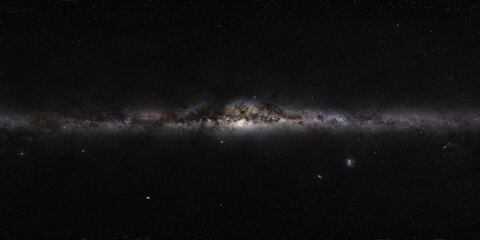
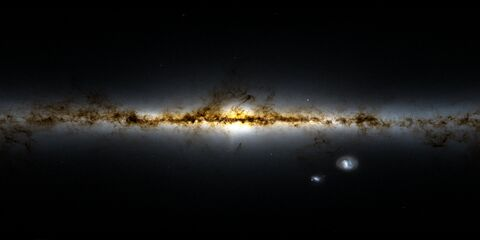
Repair I-026: starless Gaia EDR3 render (Kevinmloch, CC BY-SA 4.0, 3840x1920, 0.53 MB) replaces the two ESO halves (3.7 MB); dimmed in the shader (linear x0.04), milkyWayBrightness kept; trial switch and files removed; LMC 0.09 deg, SMC 0.23 deg; owner: keep it off by default

diff --git a/packages/astraeus/tests/sky.test.ts b/packages/astraeus/tests/sky.test.ts
@@ -162,18 +162,18 @@ function ndcOf(camera: PerspectiveCamera, world: Vector3): [number, number] {
 
 describe("the sky sits at infinity (Done When 3, ARCH-02)", () => {
   it("mounts a made-up three-star catalogue", () => {
-    const view = new SkyView({ starBrightness: 1, milkyWayBrightness: 1, pixelRatio: 1, pictures: [new Texture(), new Texture()] });
+    const view = new SkyView({ starBrightness: 1, milkyWayBrightness: 1, pixelRatio: 1, pictures: [new Texture()] });
     expect(view.starCount).toBe(0);
     view.setStars(MADE_UP);
     expect(view.starCount).toBe(3);
-    expect(view.group.children.map((child) => child.type).sort()).toEqual(["Mesh", "Mesh", "Points"]);
+    expect(view.group.children.map((child) => child.type).sort()).toEqual(["Mesh", "Points"]);
     view.setStars([]);
     expect(view.starCount).toBe(0);
-    expect(view.group.children.map((child) => child.type)).toEqual(["Mesh", "Mesh"]);
+    expect(view.group.children.map((child) => child.type)).toEqual(["Mesh"]);
   });
 
   it("moves no star on screen when the camera's position, near and far change but its orientation does not", () => {
-    const view = new SkyView({ starBrightness: 1, milkyWayBrightness: 1, pixelRatio: 1, pictures: [new Texture(), new Texture()] });
+    const view = new SkyView({ starBrightness: 1, milkyWayBrightness: 1, pixelRatio: 1, pictures: [new Texture()] });
     view.setStars(MADE_UP);
     const points = view.group.children.find((child) => child.type === "Points") as import("three").Points;
     const positions = points.geometry.getAttribute("position");
@@ -201,7 +201,7 @@ describe("the sky sits at infinity (Done When 3, ARCH-02)", () => {
   });
 
   it("turns with the camera: a rotation moves the probe on screen and a translation does not", () => {
-    const view = new SkyView({ starBrightness: 1, milkyWayBrightness: 1, pixelRatio: 1, pictures: [new Texture(), new Texture()] });
+    const view = new SkyView({ starBrightness: 1, milkyWayBrightness: 1, pixelRatio: 1, pictures: [new Texture()] });
     const camera = new PerspectiveCamera(45, 1.6, 1, 1000);
     view.follow(camera);
     const before = view.probe(camera).ndc;
@@ -226,21 +226,21 @@ describe("the sky sits at infinity (Done When 3, ARCH-02)", () => {
 });
 
 describe("rights and the shell item (Done When 4, PROV-02)", () => {
-  it("licenses the Milky Way image and credits ESO/S. Brunier", () => {
-    expect(milkyWayTiles()).toHaveLength(2);
+  it("licenses the Milky Way image and credits Kevinmloch and Gaia", () => {
+    expect(milkyWayTiles()).toHaveLength(1);
     for (const tile of milkyWayTiles()) {
       expect(textureRightsProblem(tile)).toBeNull();
-      expect(tile.licence?.licence).toBe("CC BY 4.0");
-      expect(tile.licence?.attribution).toContain("ESO/S. Brunier");
+      expect(tile.licence?.licence).toBe("CC BY-SA 4.0");
+      expect(tile.licence?.attribution).toContain("Kevinmloch (bsrender) from Gaia EDR3, ESA/Gaia/DPAC");
       expect(Math.max(tile.widthPx, tile.heightPx)).toBeLessThanOrEqual(4096); // under every WebGL2 GPU's texture limit
     }
-    expect(milkyWayTiles().reduce((sum, tile) => sum + tile.widthPx, 0)).toBe(6000); // the full original width
+    expect(milkyWayTiles().reduce((sum, tile) => sum + tile.widthPx, 0)).toBe(3840); // the 3840 px Commons thumbnail of the 8000 px original
   });
 
   it("cites its sources and says plainly which star file is drawn", () => {
     const absent = skyObject({ kind: "absent" });
     expect(absent.provenance?.sources.join(" ")).not.toMatch(/Hoffleit|stars=yale/);
-    expect(absent.provenance?.sources.join(" ")).toMatch(/ESO\/S\. Brunier/);
+    expect(absent.provenance?.sources.join(" ")).toMatch(/Kevinmloch/);
     expect(absent.provenance?.sources.join(" ")).toMatch(/HYG star database v4\.2.*CC BY-SA 4\.0/);
     expect(absent.provenance?.notes).toMatch(/could not be loaded/);
     expect(absent.provenance?.notes).toMatch(/Stars are not drawn/);
@@ -281,10 +281,10 @@ describe("rights and the shell item (Done When 4, PROV-02)", () => {
     expect(milkyWayFromSearch("?milkyway=on")).toBe(true);
     expect(milkyWayFromSearch("?sky=off")).toBeNull();
     expect(milkyWayFromSearch("?milkyway=maybe")).toBeNull();
-    const view = new SkyView({ starBrightness: 1, milkyWayBrightness: 1, pixelRatio: 1, pictures: [new Texture(), new Texture()], milkyWay: false });
+    const view = new SkyView({ starBrightness: 1, milkyWayBrightness: 1, pixelRatio: 1, pictures: [new Texture()], milkyWay: false });
     view.setStars(MADE_UP);
     const meshes = () => view.group.children.filter((child) => child.type === "Mesh");
-    expect(meshes()).toHaveLength(2);
+    expect(meshes()).toHaveLength(1);
     expect(view.pictureVisible).toBe(false);
     expect(meshes().every((mesh) => !mesh.visible)).toBe(true);
     expect(view.group.children.find((child) => child.type === "Points")?.visible).toBe(true);
@@ -292,9 +292,9 @@ describe("rights and the shell item (Done When 4, PROV-02)", () => {
     expect(view.pictureVisible).toBe(true);
     expect(view.starCount).toBe(3);
     // Owner decision 2026-10-15: with no setting the picture starts off; the switch (or ?milkyway=on) turns it on.
-    const byDefault = new SkyView({ starBrightness: 1, milkyWayBrightness: 1, pixelRatio: 1, pictures: [new Texture(), new Texture()] });
+    const byDefault = new SkyView({ starBrightness: 1, milkyWayBrightness: 1, pixelRatio: 1, pictures: [new Texture()] });
     expect(byDefault.pictureVisible).toBe(false);
-    expect(new SkyView({ starBrightness: 1, milkyWayBrightness: 1, pixelRatio: 1, pictures: [new Texture(), new Texture()], milkyWay: true }).pictureVisible).toBe(true);
+    expect(new SkyView({ starBrightness: 1, milkyWayBrightness: 1, pixelRatio: 1, pictures: [new Texture()], milkyWay: true }).pictureVisible).toBe(true);
   });
 
   it("reads brightness from the address, ignoring bad values with a warning, and changes the uniforms in place", () => {
@@ -307,7 +307,7 @@ describe("rights and the shell item (Done When 4, PROV-02)", () => {
     for (const bad of ["?stars=3", "?stars=-1", "?stars=abc", "?stars="]) expect(brightnessFromSearch(bad, "stars")).toBeNull();
     expect(warn).toHaveBeenCalledTimes(4);
     warn.mockRestore();
-    const view = new SkyView({ starBrightness: 1.2, milkyWayBrightness: 0.5, pixelRatio: 1, pictures: [new Texture(), new Texture()] });
+    const view = new SkyView({ starBrightness: 1.2, milkyWayBrightness: 0.5, pixelRatio: 1, pictures: [new Texture()] });
     expect(view.starBrightness).toBe(1.2);
     expect(view.milkyWayBrightness).toBeCloseTo(0.5, 9);
     view.setStarBrightness(1.7);
@@ -318,7 +318,7 @@ describe("rights and the shell item (Done When 4, PROV-02)", () => {
   });
 
   it("filters the picture with mipmaps and anisotropy so it does not sparkle", () => {
-    const halves = [new Texture(), new Texture()];
+    const halves = [new Texture()];
     const view = new SkyView({ starBrightness: 1, milkyWayBrightness: 1, pixelRatio: 2, maxAnisotropy: 8, pictures: halves });
     for (const texture of halves) {
       expect(texture.generateMipmaps).toBe(true);

diff --git a/packages/astraeus/src/app/SkyView.ts b/packages/astraeus/src/app/SkyView.ts
@@ -1,12 +1,19 @@
 import { AdditiveBlending, BufferAttribute, BufferGeometry, DoubleSide, LinearFilter, LinearMipmapLinearFilter, Group, Mesh, Points, ShaderMaterial, NoColorSpace, TextureLoader, Vector3 } from "three";
 import type { Camera, PerspectiveCamera, Texture } from "three";
-import { ESO_PICTURE, type PictureSet, type StarRow } from "../assets/sky";
+import { MILKY_WAY_PICTURE, type PictureSet, type StarRow } from "../assets/sky";
 import { buildPictureMesh, buildStarBuffers } from "./skyModel";
 
 // Both draws sit before everything else in the first pass (the layer-0 pass), ignore depth, and write none.
 const SKY_ORDER = -1000;
-/** Strength of the picture at brightness 1: the Milky Way is a backdrop, not the subject. */
-const PICTURE_GAIN = 0.5;
+/** Strength of the picture at brightness 1, applied after the dimming below (1: the slider scales what the dimming leaves). */
+const PICTURE_GAIN = 1;
+/**
+ * The picture is a bright render, so it is dimmed the way Star Explorer dims its sky texture (an sRGB texture times a dark grey, drawn
+ * additively): decode to linear light, multiply, encode again. 0.04 gives a mean grey of about 2.2%, the level of the owner's
+ * 2026-10-27 trial (linear x 0.04, which at the old gain of 0.5 was written x 2). Faint values fall far more than bright ones,
+ * which is what keeps the band smooth and subtle. Look-tuning is the Milky Way brightness setting, which scales the result.
+ */
+const PICTURE_DIM = 0.04;
 /** A fixed render-frame direction used to read the sky back: where it lands on screen depends only on the camera orientation. */
 const PROBE_DIRECTION = new Vector3(0.62, 0.35, -0.7).normalize();
 
@@ -20,9 +27,11 @@ void main() {
 const PICTURE_FRAGMENT = `
 uniform sampler2D uMap;
 uniform float uGain;
+uniform float uDim;
 varying vec2 vUv;
 void main() {
-  gl_FragColor = vec4(texture2D(uMap, vUv).rgb * uGain, 1.0);
+  vec3 linear = pow(texture2D(uMap, vUv).rgb, vec3(2.2)) * uDim;
+  gl_FragColor = vec4(pow(linear, vec3(1.0 / 2.2)) * uGain, 1.0);
 }`;
 
 // A star is a small Gaussian core: `aSize` is its width at half maximum in CSS pixels, the sprite is wide enough to hold three
@@ -64,9 +73,9 @@ export interface SkyViewOptions {
   readonly maxAnisotropy?: number;
   /** Whether the picture is drawn. Defaults to true. */
   readonly milkyWay?: boolean;
-  /** Legacy: the two ESO halves as ready textures (a test may pass empty ones). Overrides `picture`. */
+  /** Legacy: ready textures, one per tile (a test may pass empty ones). Overrides `picture`. */
   readonly pictures?: readonly Texture[];
-  /** The picture to draw, as a tile grid; defaults to the ESO panorama. `null` draws none until `requestPicture` is called. */
+  /** The picture to draw, as a tile grid; defaults to the Milky Way picture. `null` draws none until `requestPicture` is called. */
   readonly picture?: PictureSet | null;
 }
 
@@ -94,8 +103,8 @@ export class SkyView {
     this.#pictureOn = options.milkyWay ?? false;
     this.#brightness = milkyWayBrightness;
     this.#maxAnisotropy = maxAnisotropy;
-    if (options.pictures !== undefined) this.#build(ESO_PICTURE, options.pictures);
-    else if (options.picture !== null) this.#build(options.picture ?? ESO_PICTURE);
+    if (options.pictures !== undefined) this.#build(MILKY_WAY_PICTURE, options.pictures);
+    else if (options.picture !== null) this.#build(options.picture ?? MILKY_WAY_PICTURE);
     this.#starMaterial = new ShaderMaterial({
       vertexShader: STAR_VERTEX,
       fragmentShader: STAR_FRAGMENT,
@@ -116,7 +125,7 @@ export class SkyView {
     set.tiles.forEach((tile, index) => {
       const texture = textures?.[index] ?? new TextureLoader().load(tile.url);
       this.#textures.push(texture);
-      // Raw sRGB goes to the framebuffer as it is (no decode and re-encode per pixel); mipmaps and anisotropic filtering keep the
+      // The texture is read as raw sRGB values and the shader does the dimming (PICTURE_DIM); mipmaps and anisotropic filtering keep the
       // picture from sparkling when it is drawn smaller than the file, and the magnified case is plain bilinear.
       texture.colorSpace = NoColorSpace;
       texture.generateMipmaps = true;
@@ -127,7 +136,7 @@ export class SkyView {
       const material = new ShaderMaterial({
         vertexShader: PICTURE_VERTEX,
         fragmentShader: PICTURE_FRAGMENT,
-        uniforms: { uMap: { value: texture }, uGain: { value: PICTURE_GAIN * this.#brightness } },
+        uniforms: { uMap: { value: texture }, uDim: { value: PICTURE_DIM }, uGain: { value: PICTURE_GAIN * this.#brightness } },
         side: DoubleSide,
         depthTest: false,
         depthWrite: false,
@@ -157,9 +166,9 @@ export class SkyView {
     this.#held = false;
   }
 
-  /** Builds the ESO panorama the first time it is wanted (nothing is decoded while the picture stays off); a no-op once a picture is held. */
+  /** Builds the Milky Way picture the first time it is wanted (nothing is decoded while the picture stays off); a no-op once a picture is held. */
   requestPicture(): void {
-    if (!this.#held) this.#build(ESO_PICTURE);
+    if (!this.#held) this.#build(MILKY_WAY_PICTURE);
   }
 
   /** Sets the star strength in place (0 to 2); no rebuild. */

diff --git a/packages/astraeus-site/assets.html b/packages/astraeus-site/assets.html
@@ -179,9 +179,9 @@ footer .wrap { display: flex; flex-wrap: wrap; justify-content: space-between; g
       </div>
       <div class="sky-feature">
         <figure class="plate" style="margin:0">
-          <img src="site/t-milky-way.jpg" alt="The ESO Milky Way panorama, the whole sky in one strip with the galactic centre in the middle." loading="lazy">
-          <span class="tag">MILKY WAY · ESO/S. BRUNIER</span>
-          <div class="cap">ESO eso0932a, 6000×3000, 3.7 MB. Split into two halves at the galactic centre and turned into the same sky frame as the stars. Good to a few degrees, and soft beside the stars: a sharper one is on the wish list. Off by default, with a switch and a brightness slider.</div>
+          <img src="site/t-milky-way.jpg" alt="The Milky Way picture, the whole sky in one strip with the galactic centre in the middle." loading="lazy">
+          <span class="tag">MILKY WAY · KEVINMLOCH, GAIA EDR3</span>
+          <div class="cap">Gaia EDR3 render without the foreground stars, 3840×1920, 0.5 MB, one image in the same sky frame as the stars (the Magellanic Clouds land within half a degree). Dimmed when drawn so it stays smooth and subtle. Off by default, with a switch and a brightness slider.</div>
         </figure>
         <figure class="plate" style="margin:0">
           <canvas id="stars" aria-label="A sketch of the brightest stars along the ecliptic band" role="img"></canvas>
@@ -231,7 +231,7 @@ footer .wrap { display: flex; flex-wrap: wrap; justify-content: space-between; g
         <p>The credit lines each source asks for, word for word where they give one.</p>
       </div>
       <div class="rows">
-        <div class="row"><div><h3>Milky Way panorama</h3><span class="sub">CC BY 4.0</span></div><p class="lic">ESO/S. Brunier. eso0932a, eso.org/public/images/eso0932a. Changed: split in two and turned into the J2000 sky frame.</p><p></p><span class="st ok"><i></i>Required</span></div>
+        <div class="row"><div><h3>Milky Way panorama</h3><span class="sub">CC BY-SA 4.0</span></div><p class="lic">Milky Way render by Kevinmloch (bsrender) from Gaia EDR3, ESA/Gaia/DPAC. commons.wikimedia.org/wiki/File:Milky_Way_360_equirectangular_rendering_with_foreground_stars_removed.png. Changed: resized to 3840x1920, re-encoded as JPEG and dimmed when drawn.</p><p></p><span class="st ok"><i></i>Required</span></div>
         <div class="row"><div><h3>Sun, Mercury, Mars, Jupiter maps</h3><span class="sub">CC BY 4.0</span></div><p class="lic">Solar System Scope (solarsystemscope.com/textures), based on NASA imagery and elevation data.</p><p></p><span class="st ok"><i></i>Required</span></div>
         <div class="row"><div><h3>Venus map</h3><span class="sub">Public domain</span></div><p class="lic">Venus texture: USGS Astrogeology / NASA Magellan C3-MDIR mosaic, public domain. astrogeology.usgs.gov/search/map/Venus/Magellan/Venus_Magellan_C3MDIR_Colorized_Global_Mosaic_4641m.</p><p></p><span class="st ok"><i></i>Courtesy</span></div>
         <div class="row"><div><h3>Io map</h3><span class="sub">Public domain</span></div><p class="lic">USGS Astrogeology Science Center; NASA/JPL Galileo and Voyager missions.</p><p></p><span class="st ok"><i></i>Courtesy</span></div>

diff --git a/packages/astraeus/tests/skyPicture.test.ts b/packages/astraeus/tests/skyPicture.test.ts
@@ -1,25 +1,25 @@
-// I-026, slimmed by T-068: the one Milky Way picture (the ESO panorama as a tiled set), its mesh, and its lazy load.
+// I-026, slimmed by T-068: the one Milky Way picture (the Gaia EDR3 render as a one-tile set), its mesh, and its lazy load.
 // Scenarios removed with the second (NASA) picture source, none of them still applicable: manifest validation, tone-map arguments,
-// equatorial registration, the fetched-tiles check, the fall-back to ESO and the `?skymap=` switch (comparison-only; the ESO set,
+// equatorial registration, the fetched-tiles check, the fall-back to the earlier source and the `?skymap=` switch (comparison-only; the picture set,
 // its galactic registration in sky.test.ts, and the lazy load below remain).
 import { describe, expect, it, vi } from "vitest";
 import { Texture, TextureLoader } from "three";
-import { ESO_PICTURE, MAX_TILE_PX, milkyWayUv } from "../src/assets/sky";
+import { MILKY_WAY_PICTURE, MAX_TILE_PX, milkyWayUv } from "../src/assets/sky";
 import { SkyView } from "../src/app/SkyView";
 import { buildPictureMesh, resolveSkySettings } from "../src/app/skyModel";
 
 /** Render-frame position back to an EQJ unit vector. */
 const renderToEqj = (x: number, y: number, z: number): [number, number, number] => [x, -z, y];
 
-describe("the ESO Milky Way picture", () => {
-  it("is the galactic two-tile panorama, each tile within the GPU texture limit, with its licence", () => {
-    expect(ESO_PICTURE).toMatchObject({ columns: 2, rows: 1, licence: "CC BY 4.0", credit: "ESO/S. Brunier" });
-    expect(ESO_PICTURE.tiles).toHaveLength(2);
-    expect(ESO_PICTURE.tiles.every((tile) => tile.widthPx <= MAX_TILE_PX && tile.heightPx <= MAX_TILE_PX)).toBe(true);
+describe("the Milky Way picture", () => {
+  it("is the galactic one-tile picture, within the GPU texture limit, with its licence", () => {
+    expect(MILKY_WAY_PICTURE).toMatchObject({ columns: 1, rows: 1, licence: "CC BY-SA 4.0", credit: "Kevinmloch (bsrender), Gaia EDR3, ESA/Gaia/DPAC" });
+    expect(MILKY_WAY_PICTURE.tiles).toHaveLength(1);
+    expect(MILKY_WAY_PICTURE.tiles.every((tile) => tile.widthPx <= MAX_TILE_PX && tile.heightPx <= MAX_TILE_PX)).toBe(true);
   });
 
   it("places every vertex of each tile mesh on the galactic picture coordinates its own texture coordinates name", () => {
-    const grid = { columns: ESO_PICTURE.columns, rows: ESO_PICTURE.rows };
+    const grid = { columns: MILKY_WAY_PICTURE.columns, rows: MILKY_WAY_PICTURE.rows };
     let worst = 0;
     for (let column = 0; column < grid.columns; column += 1) {
       const mesh = buildPictureMesh(128, 64, { column, row: 0, ...grid });
@@ -47,7 +47,7 @@ describe("the ESO Milky Way picture", () => {
     expect(meshes()).toHaveLength(0);
     view.requestPicture();
     view.requestPicture();
-    expect(meshes()).toHaveLength(2);
+    expect(meshes()).toHaveLength(1);
     expect(view.pictureVisible).toBe(false);
     view.setPictureVisible(true);
     expect(view.pictureVisible).toBe(true);

diff --git a/packages/astraeus-data/src/pictures.ts b/packages/astraeus-data/src/pictures.ts
@@ -11,8 +11,7 @@ import ganymedeUrl from "./textures/ganymede-2k.jpg";
 import iapetusUrl from "./textures/iapetus-4k.jpg";
 import ioUrl from "./textures/io-2k.jpg";
 import mimasUrl from "./textures/mimas-4k.jpg";
-import milkyWayLeftUrl from "./textures/milky-way-left.jpg";
-import milkyWayRightUrl from "./textures/milky-way-right.jpg";
+import milkyWayUrl from "./textures/milky-way.jpg";
 import plutoUrl from "./textures/pluto-4k.jpg";
 import rheaUrl from "./textures/rhea-4k.jpg";
 import tethysUrl from "./textures/tethys-4k.jpg";
@@ -46,11 +45,12 @@ const IO_TEXTURE_LICENCE: AssetLicence = Object.freeze({
 });
 
 const MILKY_WAY_LICENCE: AssetLicence = Object.freeze({
-  source: "The Milky Way panorama (eso0932a), ESO/S. Brunier",
-  url: "https://www.eso.org/public/images/eso0932a/",
-  licence: "CC BY 4.0",
-  attribution: "ESO/S. Brunier. The 6000x3000 original (TIFF) was cut into two 3000x3000 halves and re-encoded as JPEG; no other change.",
-  accessed: "2026-10-13",
+  source: "Milky Way 360 equirectangular rendering with foreground stars removed (Wikimedia Commons), Kevinmloch, bsrender, from Gaia EDR3",
+  url: "https://commons.wikimedia.org/wiki/File:Milky_Way_360_equirectangular_rendering_with_foreground_stars_removed.png",
+  licence: "CC BY-SA 4.0",
+  attribution: "Milky Way render by Kevinmloch (bsrender) from Gaia EDR3, ESA/Gaia/DPAC, CC BY-SA 4.0. The 8000x4000 original was resized to 3840x1920 by Wikimedia Commons and re-encoded as JPEG here; no other change (it is dimmed when drawn, not in the file)."
+,
+  accessed: "2026-10-29",
 });
 
 
@@ -110,8 +110,7 @@ export const PICTURES: Readonly<Record<string, TextureRef>> = Object.freeze({
   triton: picture(tritonUrl, 4096, 2048, nasa("Triton", `NASA/JPL-Caltech/Lunar & Planetary Institute Map of Triton (PIA18668), Voyager 2 simple-cylindrical colour map via the public-domain Wikimedia copy; donor file 14,138x7,069 (donor README); ${RESIZE}`, "https://pds-rings.seti.org/press_releases/pages/PIA18xxx/PIA18668.html", "NASA/JPL-Caltech/Lunar & Planetary Institute")),
   charon: picture(charonUrl, 1024, 512, nasa("Charon", "USGS Astrogeology, Charon New Horizons LORRI MVIC Global Mosaic 300 m (Jul 2017), 1024 px preview JPG (byte-identical to the donor's charon-2k.jpg; no donor README entry, source recorded by Astraeus)", "https://astrogeology.usgs.gov/", "New Horizons team; NASA, JHUAPL, SwRI, LPI; USGS Astrogeology 2017", "USGS use constraint: please cite authors")),
   "venus-8k": picture(venus8kUrl, 8192, 4096, VENUS_LICENCE),
-  "milky-way-left": picture(milkyWayLeftUrl, 3000, 3000, MILKY_WAY_LICENCE),
-  "milky-way-right": picture(milkyWayRightUrl, 3000, 3000, MILKY_WAY_LICENCE),
+  "milky-way": picture(milkyWayUrl, 3840, 1920, MILKY_WAY_LICENCE),
 });
 
 /** The bodies that gain a map from this package (the others in `PICTURES` are the sky and Venus's wide-screen file). */

diff --git a/packages/astraeus/src/assets/sky.ts b/packages/astraeus/src/assets/sky.ts
@@ -170,28 +170,27 @@ export function starAppearance(vMag: number): { readonly sizePx: number; readonl
 // ---------------------------------------------------------------- sources and the shell item
 
 /**
- * The picture in two square halves, left (longitude 180 to 0, running to the centre) then right; each is under every GPU's texture limit.
- * The files ship in astraeus-data (names "milky-way-left", "milky-way-right"); without that package the list is empty and no picture is drawn.
+ * The picture, one 3840x1920 image (under every GPU's texture limit). The file ships in astraeus-data (name "milky-way");
+ * without that package the list is empty and no picture is drawn.
  */
-export const milkyWayTiles = (): readonly TextureRef[] => ["milky-way-left", "milky-way-right"].flatMap((name) => pictureOf(name) ?? []);
+export const milkyWayTiles = (): readonly TextureRef[] => ["milky-way"].flatMap((name) => pictureOf(name) ?? []);
 
-/** The ESO panorama as a two-tile galactic picture: the one Milky Way picture. */
-export const ESO_PICTURE: PictureSet = Object.freeze<PictureSet>({
-  name: "ESO Milky Way panorama (eso0932a)",
-  columns: 2,
+/** The Gaia EDR3 render (stars removed) as a one-tile galactic picture: the one Milky Way picture. */
+export const MILKY_WAY_PICTURE: PictureSet = Object.freeze<PictureSet>({
+  name: "Milky Way, Gaia EDR3 render without foreground stars (Kevinmloch)",
+  columns: 1,
   rows: 1,
   get tiles(): readonly PictureTile[] {
-    const halves = milkyWayTiles();
-    return halves.length < 2 ? [] : halves.map((tile, column) => Object.freeze({ column, row: 0, url: tile.url, widthPx: tile.widthPx, heightPx: tile.heightPx }));
+    return milkyWayTiles().map((tile) => Object.freeze({ column: 0, row: 0, url: tile.url, widthPx: tile.widthPx, heightPx: tile.heightPx }));
   },
-  credit: "ESO/S. Brunier",
-  licence: "CC BY 4.0",
-  source: "https://www.eso.org/public/images/eso0932a/",
+  credit: "Kevinmloch (bsrender), Gaia EDR3, ESA/Gaia/DPAC",
+  licence: "CC BY-SA 4.0",
+  source: "https://commons.wikimedia.org/wiki/File:Milky_Way_360_equirectangular_rendering_with_foreground_stars_removed.png",
 });
 
 export const SKY_SOURCES: readonly string[] = Object.freeze([
   "HYG star database v4.2 (Hipparcos, Yale Bright Star, Gliese catalogues), astronexus (https://www.astronexus.com/projects/hyg), CC BY-SA 4.0. The star file only; the code is MIT.",
-  "The Milky Way panorama, ESO/S. Brunier (https://www.eso.org/public/images/eso0932a/), CC BY 4.0.",
+  "The Milky Way picture: Milky Way render by Kevinmloch (bsrender) from Gaia EDR3, ESA/Gaia/DPAC (https://commons.wikimedia.org/wiki/File:Milky_Way_360_equirectangular_rendering_with_foreground_stars_removed.png), CC BY-SA 4.0. Resized.",
 ]);
 
 // ---------------------------------------------------------------- settings

diff --git a/packages/astraeus-site/index.html b/packages/astraeus-site/index.html
@@ -304,7 +304,7 @@ moon.<span class="g">stateAt</span>(Date.<span class="g">parse</span>(<span clas
         <div class="globe"><div class="ball" style="background-image:url(site/t-pluto-4k.jpg)"></div><b>Pluto</b><span>NASA/JPL</span><a class="moons" href="assets.html#moons-pluto">+5 moons</a></div>
       </div>
       <div class="shelf2">
-        <a class="tile" href="assets.html"><img src="site/t-milky-way.jpg" alt="The ESO Milky Way panorama"><div class="tile-body"><small>SKY</small><b>Real stars and the Milky Way</b><p>8,920 naked-eye stars from the HYG catalogue, and ESO's panorama in the same frame.</p></div></a>
+        <a class="tile" href="assets.html"><img src="site/t-milky-way.jpg" alt="The Milky Way picture"><div class="tile-body"><small>SKY</small><b>Real stars and the Milky Way</b><p>8,920 naked-eye stars from the HYG catalogue, and a Gaia-based Milky Way picture in the same frame.</p></div></a>
         <a class="tile data-tile" href="assets.html"><div class="tile-body" style="padding:0"><small>MEASURED ORBITS</small><b>Global Meteor Network</b><p>Perseids from 2025, every meteor on its own ellipse. CC BY 4.0.</p></div><span class="big">25,588</span></a>
         <a class="tile data-tile" href="assets.html"><div class="tile-body" style="padding:0"><small>ORBITS AND MISSIONS</small><b>NASA JPL and Apollo 11</b><p>A comet out to 51 AU, an asteroid from a settings file, and 30 timed Apollo events.</p></div><span class="big">30</span></a>
       </div>

diff --git a/packages/astraeus-site/tests/assetsPageCredits.test.ts b/packages/astraeus-site/tests/assetsPageCredits.test.ts
@@ -52,7 +52,7 @@ interface Claim {
 }
 
 const claims: readonly Claim[] = [
-  { row: "Milky Way panorama", records: [PICTURES["milky-way-left"]!.licence!], credit: ["ESO/S. Brunier"], linked: true },
+  { row: "Milky Way panorama", records: [PICTURES["milky-way"]!.licence!], credit: ["Kevinmloch (bsrender)", "Gaia EDR3"], linked: true },
   { row: "Sun, Mercury, Mars, Jupiter maps", records: ["sun", "mercury", "mars", "jupiter"].map(bodyRecord), credit: ["Solar System Scope (solarsystemscope.com/textures)"], linked: true },
   { row: "Venus map", records: [bodyRecord("venus")], credit: ["USGS Astrogeology / NASA Magellan"], linked: true },
   { row: "Io map", records: [bodyRecord("io")], credit: ["USGS Astrogeology Science Center", "NASA/JPL Galileo and Voyager missions"], linked: false },

diff --git a/packages/astraeus/src/app/skyModel.ts b/packages/astraeus/src/app/skyModel.ts
@@ -49,7 +49,7 @@ export function skyObject(status: StarStatus): ExperienceObject {
   const provenance: Provenance = createProvenance({
     sourceType: "observed",
     sources: SKY_SOURCES,
-    accuracy: "Star directions are the catalogue's J2000 positions to about an arcsecond. The Milky Way picture is the ESO photographic panorama, placed by its galactic coordinates (agrees with the stars only to a few degrees).",
+    accuracy: "Star directions are the catalogue's J2000 positions to about an arcsecond. The Milky Way picture is a Gaia EDR3 render with the foreground stars removed, placed by its galactic coordinates (the Magellanic Clouds land within half a degree).",
     notes: starLine,
   });
   return {

diff --git a/packages/astraeus-site/tests/packagePacks.test.ts b/packages/astraeus-site/tests/packagePacks.test.ts
@@ -72,7 +72,7 @@ describe("publishable packages", () => {
 
 describe("astraeus-data credits (PROV-02)", () => {
   it("every picture carries a licence with a credit and a source page", () => {
-    expect(Object.keys(PICTURES).length).toBe(17);
+    expect(Object.keys(PICTURES).length).toBe(16);
     for (const [name, texture] of Object.entries(PICTURES)) {
       expect(texture.licence, name).toBeDefined();
       expect(texture.licence!.attribution, name).toBeTruthy();

diff --git a/packages/astraeus/tests/publicApi.test.ts b/packages/astraeus/tests/publicApi.test.ts
@@ -115,7 +115,7 @@ describe("moons and the data packages (O-036 T-161)", () => {
       expect(texture?.url).toBeTruthy();
       expect(texture?.licence?.attribution).toContain("NASA/JPL");
       expect(catalogue.get("venus").visual.texture?.desktop?.widthPx).toBe(8192);
-      expect(pictureOf("milky-way-left")).toBeDefined();
+      expect(pictureOf("milky-way")).toBeDefined();
     } finally {
       registerPictures(pictureData.pictures!);
     }

diff --git a/.savepoint/issues/I-026-the-milky-way-picture-is-too-soft-beside-the-catalogue-stars.md b/.savepoint/issues/I-026-the-milky-way-picture-is-too-soft-beside-the-catalogue-stars.md
@@ -38,6 +38,14 @@ history:
     actor: {role: executor, session: owner-chat-milky-way-20261027}
     kind: observed
     note: 'Cause, measured against star-explorer/public/textures/milky-way-4k.jpg (NASA SVS 4851 Milky Way layer, bright stars removed): (1) splotchy = ESO eso0932a has its stars baked in; (2) bright = Star Explorer draws an sRGB texture times colour #6e6e6e (0.155 linear, AdditiveBlending, toneMapped false), which darkens faint values far more than bright ones, while SkyView multiplies raw sRGB values by PICTURE_GAIN 0.5, leaving a grey haze. Rejected: ESA Gaia EDR3 flux map (sci.esa.int, CC BY-SA 3.0 IGO): mean grey 18.8% vs NASA 3.9%, 64% of the sky above 8% vs 16%; owner "soo much worse". Chosen: Wikimedia Commons File:Milky_Way_360_equirectangular_rendering_with_foreground_stars_removed.png (Kevinmloch, bsrender from Gaia EDR3, stars within 3 kpc removed, CC BY-SA 4.0, 8000x4000; 32000x16000 original not linked). Galactic, l = 0 centred, increasing left, as milkyWayUv expects: LMC 0.1 deg and SMC 0.3 deg from expected (mirrored copy 15.2/9.5 deg). Local trial (uncommitted; files git-ignored in packages/astraeus-site/data/local/sky/): the 3840 px Wikimedia thumbnail, linearised, times 0.04, re-encoded, times 2 to undo PICTURE_GAIN, JPEG q85 = 245 KB, mean grey 2.2% matching the NASA layer drawn the Star Explorer way; NASA layer reprojected equatorial to galactic as a control (?skymap=nasa, local only, licence unchanged). Switch: trialPictureFromSearch in packages/astraeus/src/app/SkyView.ts, ?skymap=starless|nasa. tsc passed; no tests run, no browser run by the assistant.'
+  - at: '2026-10-29T10:50:00Z'
+    actor: {role: executor, session: i026-repair-2026-10-29}
+    kind: repair_attempted
+    note: 'Repair built on the owner''s 2026-10-27 and 2026-10-29 decisions (3840 px starless Gaia EDR3 render). Fetched the 3840 px Commons thumbnail of File:Milky_Way_360_equirectangular_rendering_with_foreground_stars_removed.png (Special:FilePath ?width=3840, 10.08 MB PNG, undimmed; the 8000 px original was not fetched), flattened alpha, re-encoded as JPEG q70 4:2:0: packages/astraeus-data/src/textures/milky-way.jpg, 3840x1920, 530,833 bytes. Removed milky-way-left.jpg and milky-way-right.jpg (3.70 MB together): download 3.70 MB -> 0.53 MB. Licence record (PROV-02) in astraeus-data pictures.ts (one picture "milky-way"), NOTICE, README, root README table and credit line, assets.html (card, credit row, caption) and DONOR_PROVENANCE.md: Milky Way render by Kevinmloch (bsrender) from Gaia EDR3, ESA/Gaia/DPAC, CC BY-SA 4.0, resized and re-encoded; dimmed when drawn. Engine: ESO_PICTURE became MILKY_WAY_PICTURE (one tile), SKY_SOURCES and the sky accuracy text updated. Dimming is in the picture shader (PICTURE_DIM 0.04: pow 2.2 decode, times 0.04, pow 1/2.2 encode, then times PICTURE_GAIN, now 1 where it was 0.5; the trial''s x0.04 then x2 for the old gain is the same default), so milkyWayBrightness still scales it; the brightness slider is the live tuning. Removed trialPictureFromSearch and deleted the git-ignored trial files in data/local/sky/. Registration probe on the shipped file (blurred peak vs expected galactic position): LMC 0.09 deg, SMC 0.23 deg off (limit 0.5). Default off unchanged. Tests updated for one tile (sky, skyPicture, publicApi, assetsPageCredits, packagePacks). Gates: lint, typecheck, build, npm test (1886 passed 1 skipped), check:pack, check:engine-alone all pass. No browser run; owner look on localhost:5490 pending. Not resolved: a Check verifies.'
+  - at: '2026-10-29T10:58:25Z'
+    actor: {role: owner, session: i026-repair-20261029}
+    kind: owner_decision
+    note: 'Owner, 2026-10-29, after looking at the repaired picture on the localhost:5490 preview (app.html?milkyway=on): "Keep it off by default (Recommended)"; earlier the same day chose the 3840 px picture. Recorded by the coordinator.'
 ---
 
 # I-026: The Milky Way picture is too soft beside the catalogue stars
